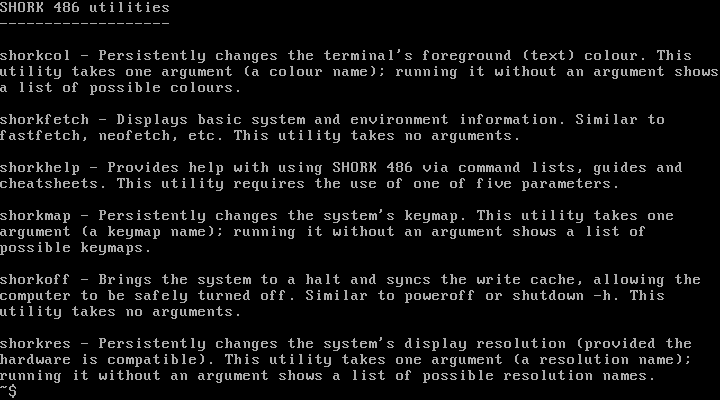
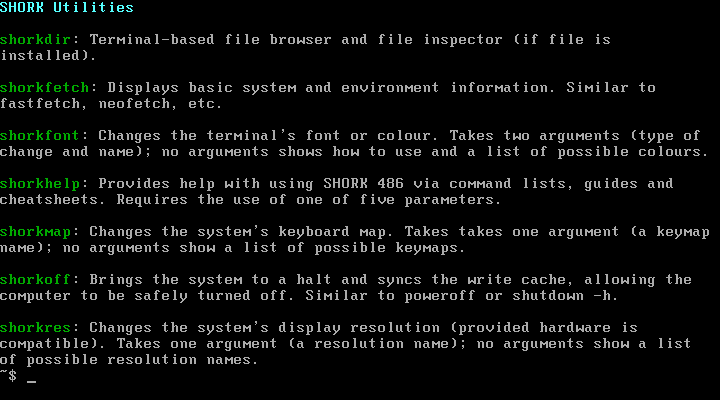
Made changes needed now shorkcol became shorkfont
* shorkcol was renamed shorkfont to reflect its new PSF font selection capabilities
* Several outdated screenshots were updated.

diff --git a/README.md b/README.md
@@ -33,9 +33,9 @@ ar, arch, ascii, awk, basename, bc, beep, blkid, cal, cat, chmod, chown, chroot,
 
 ### Custom utilities 
 
-* **[shorkcol](https://github.com/SharktasticA/shorkcol)** - Changes the terminal's foreground (text) colour. Takes one argument (a colour name); running it without an argument shows a list of possible colours.
 * **[shorkdir](https://github.com/SharktasticA/shorkdir)** - Lightweight terminal-based file browser.
 * **[shorkfetch](https://github.com/SharktasticA/shorkfetch)** - Displays basic system and environment information. Similar to fastfetch, neofetch, etc.
+* **[shorkfont](https://github.com/SharktasticA/shorkfont)** - Changes the terminal's PSF font or colour. Takes two arguments (type of change and name); running it without an argument shows how to use and a list of possible colours.
 * **[shorkhelp](https://github.com/SharktasticA/shorkhelp)** - Informs of SHORK 486's capabilities and provides guidance. Requires one of up to five parameters:
     * `--commands`: Shows a command list including core commands, utilities and bundled software.
     * `--emacs`: Shows an Emacs (Mg) cheatsheet.

diff --git a/GALLERY.md b/GALLERY.md
@@ -65,7 +65,7 @@
     <td style="width: 33%; text-align: center;"><img src="photos/20260223_365ed_shorkoff.jpg" style="width: 100%;" /></td>
   </tr>
   <tr>
-    <td>shorkcol</td>
+    <td>shorkcol (outdated photo)</td>
     <td>shorkoff</td>
   </tr>
 </table>
